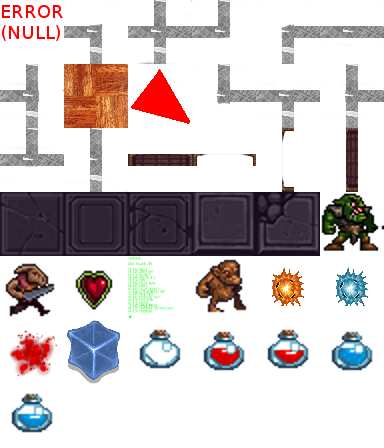
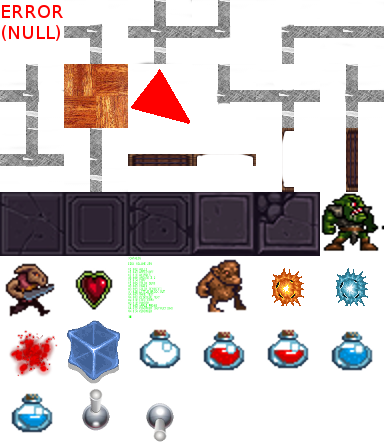
Added switches to map/field format. Note, that they don't work yet

Changed region(s): [[0.375, 0.875, 0.4688, 1.0], [0.2188, 0.875, 0.2812, 0.9688]]

diff --git a/src/MapLogic/map.cpp b/src/MapLogic/map.cpp
@@ -90,6 +90,12 @@ LoadedMap::LoadedMap(const char * path) {
 			case 'h':
 				new_field= new Field(IField::SMALL_HEALTH_FLASK);
 				break;
+			case '^':
+				new_field= new Field(IField::SWITCH_UP);
+				break;
+			case 'v':
+				new_field= new Field(IField::SWITCH_DOWN);
+				break;
 			case 'H':
 				new_field= new Field(IField::LARGE_HEALTH_FLASK);
 				break;

diff --git a/src/MapLogic/field.cpp b/src/MapLogic/field.cpp
@@ -37,6 +37,8 @@ void Field::EnsureFieldIdsInitialized()
 	assigned_field[SMALL_HEALTH_FLASK] = 34;
 	assigned_field[LARGE_HEALTH_FLASK] = 33;
 	assigned_field[EMPTY_FLASK] = 32;
+	assigned_field[SWITCH_DOWN] = 38;
+	assigned_field[SWITCH_UP] = 37;
 	initialized = true;
 }
 int Field::GetTileId()

diff --git a/src/MapLogic/field.h b/src/MapLogic/field.h
@@ -37,7 +37,8 @@ public:
 		SMALL_HEALTH_FLASK,
 		LARGE_HEALTH_FLASK,
 		EMPTY_FLASK,
-
+		SWITCH_UP,
+		SWITCH_DOWN,
 		NUM_FIELD_TYPES
   
 	};
